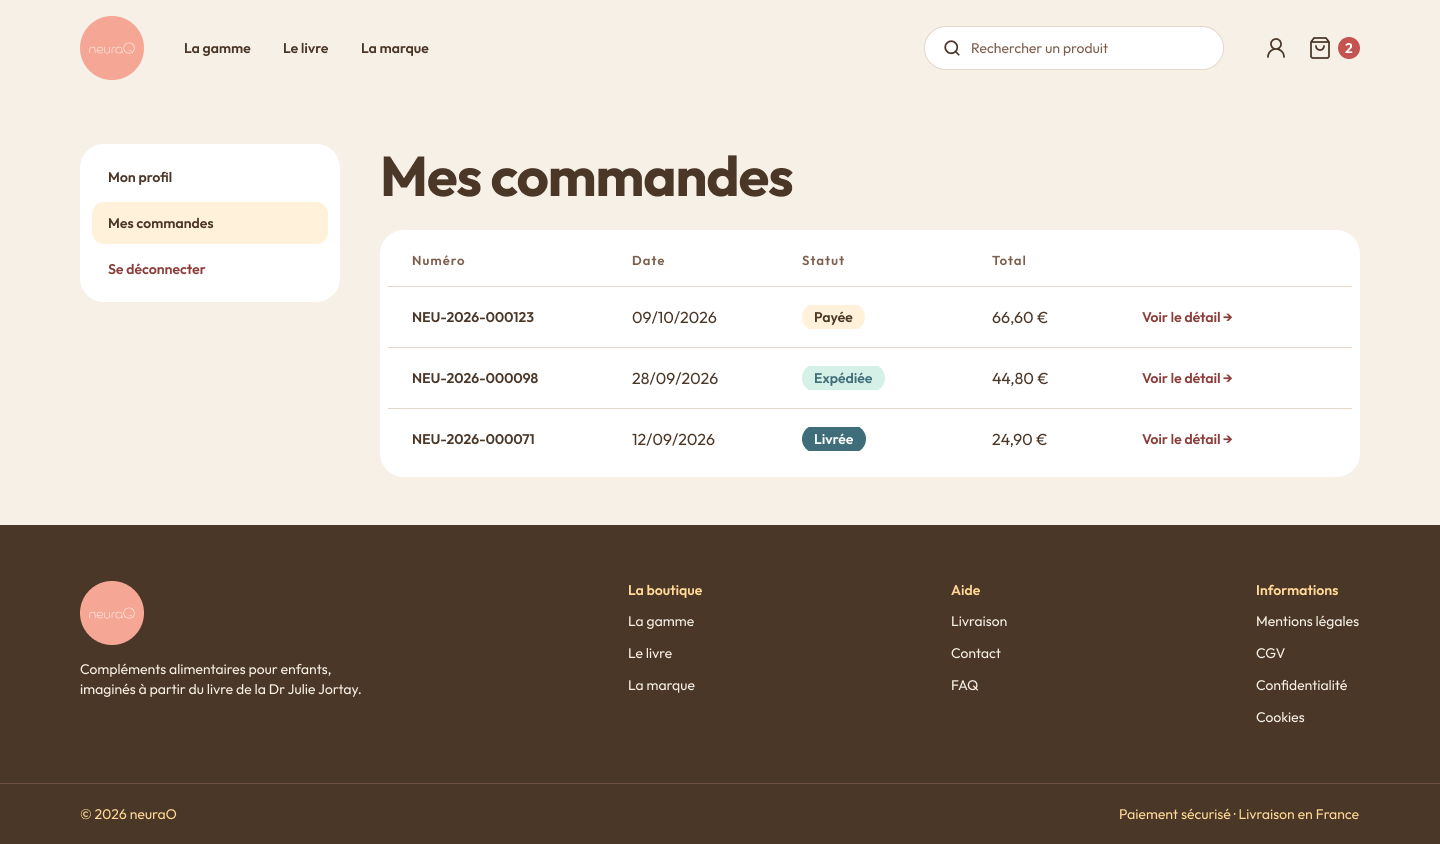
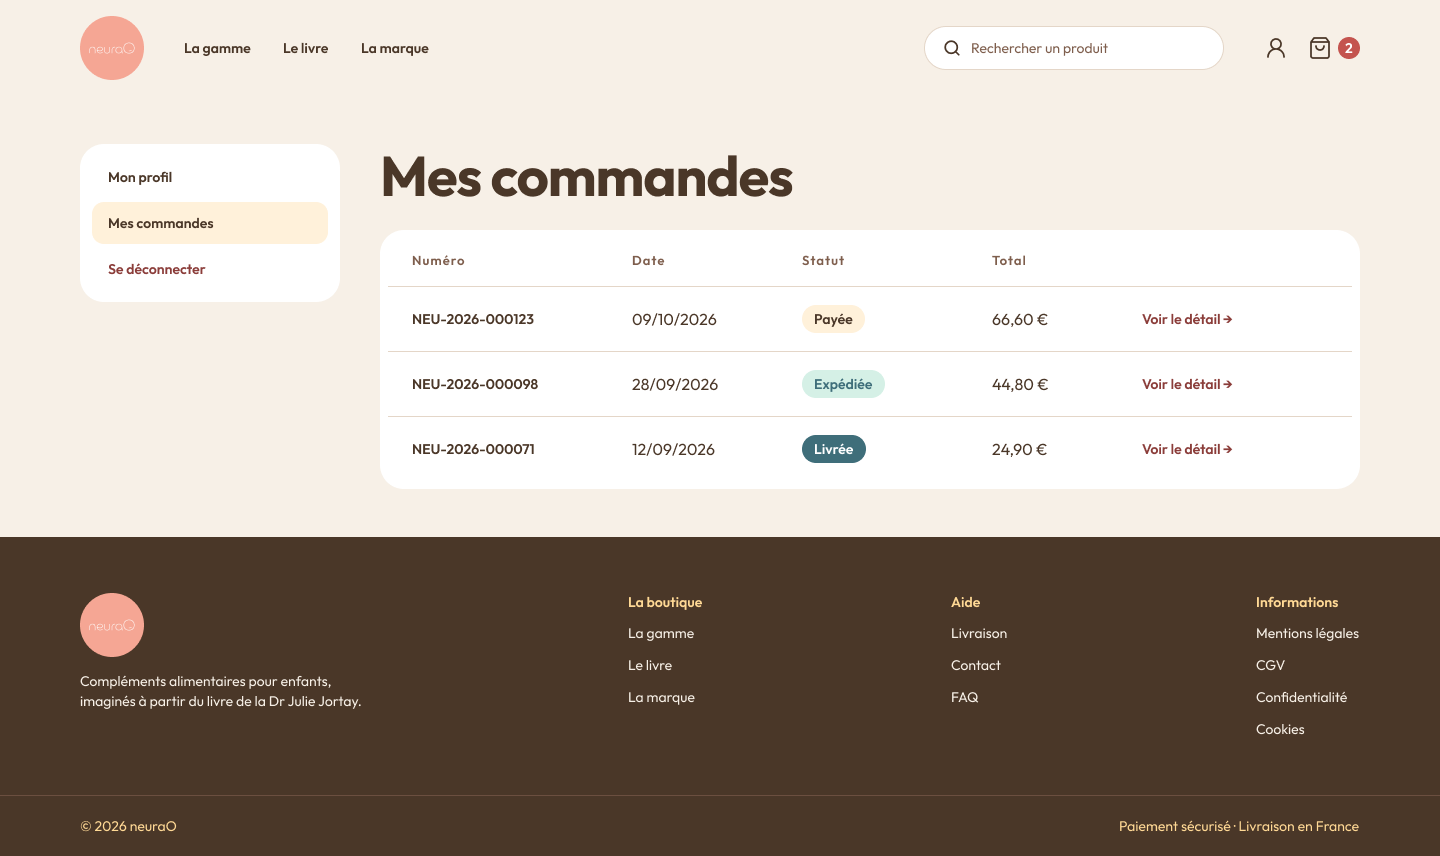
docs: corrige les pastilles de statut et ajoute l'inscription mobile

diff --git a/docs/conception/maquettes.md b/docs/conception/maquettes.md
@@ -9,8 +9,8 @@ La conception suit l'ordre wireframe → maquette → prototype. Chaque page du 
 | Page Figma                | Contenu                                                                                                                                      |
 | ------------------------- | -------------------------------------------------------------------------------------------------------------------------------------------- |
 | 1 — Wireframes            | La structure des 28 pages, en niveaux de gris, avec des annotations qui renvoient aux besoins du cahier des charges (B1 à B23, A1 à A11, §6) |
-| 2 — Maquettes             | Les mêmes 28 pages avec l'identité neuraO : 56 écrans                                                                                        |
-| 3 — Prototype             | 37 écrans reliés par 200 liens au clic, en trois flux : parcours d'achat bureau, parcours d'achat mobile, back-office                        |
+| 2 — Maquettes             | Les mêmes 28 pages avec l'identité neuraO : 57 écrans (sur mobile, la connexion a deux écrans : « Se connecter » et « Créer un compte »)     |
+| 3 — Prototype             | 38 écrans reliés par 205 liens au clic, en trois flux : parcours d'achat bureau, parcours d'achat mobile, back-office                        |
 | 4 — Schéma d'enchaînement | Les écrans et les actions qui permettent de passer de l'un à l'autre                                                                         |
 
 Pages couvertes : accueil, catalogue, recherche (avec et sans résultat), fiche produit, le livre, la marque, panier, connexion et inscription, mot de passe oublié, nouveau mot de passe, tunnel de commande en trois étapes, confirmation, profil, commandes du client, détail d'une commande, gabarit des pages légales avec le bandeau de cookies, page 404 ; back-office : connexion, commandes, détail d'une commande, produits, fiche produit, catégories, stock, clients, comptes internes.
@@ -56,4 +56,4 @@ Pages couvertes : accueil, catalogue, recherche (avec et sans résultat), fiche 
 
 ## Exports
 
-Le dossier `maquettes/` contient le schéma d'enchaînement et une sélection d'écrans en bureau et en mobile : accueil, catalogue, fiche produit, panier, paiement, commandes du client, et deux écrans du back-office. Les 56 écrans restent consultables dans le fichier Figma.
+Le dossier `maquettes/` contient le schéma d'enchaînement et une sélection d'écrans en bureau et en mobile : accueil, catalogue, fiche produit, panier, paiement, commandes du client, création de compte sur mobile, et deux écrans du back-office. Tous les écrans restent consultables dans le fichier Figma.
